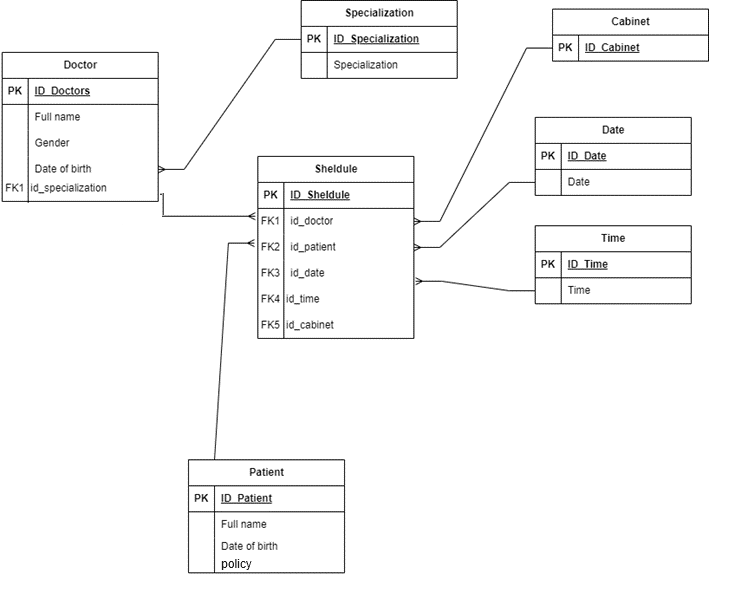
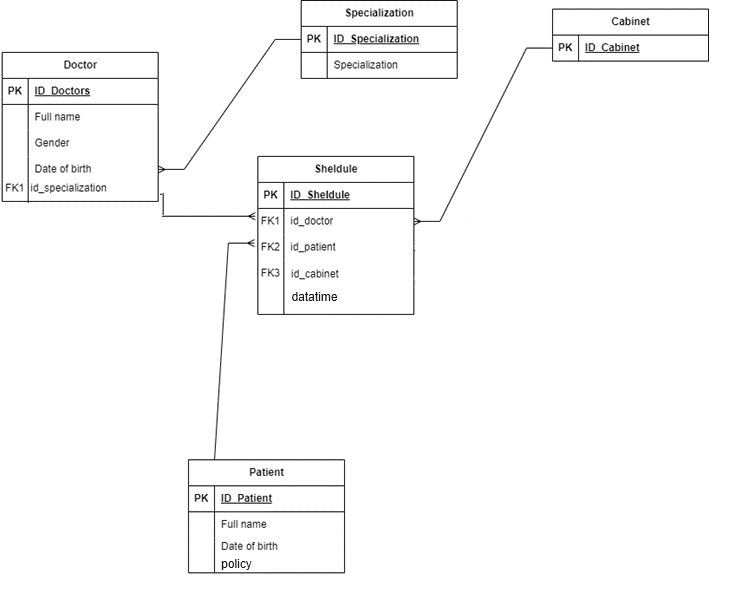
#1 Замечания по дате и времени

diff --git a/ORM/Polyclinic/schedule.py b/ORM/Polyclinic/schedule.py
@@ -1,0 +1,22 @@
+from sqlalchemy import Column, Integer, DateTime, ForeignKey
+from sqlalchemy.orm import relationship
+from base import Base
+
+class Schedule(Base):
+    __tablename__ = 'schedules'
+
+    id = Column(Integer, primary_key=True, index=True)
+    datetime = Column(DateTime)
+    patient_id = Column(Integer, ForeignKey('patients.id'))
+    doctor_id = Column(Integer, ForeignKey('doctors.id'))
+    cabinet_id = Column(Integer, ForeignKey('cabinets.id'))
+
+    patient = relationship('Patient', back_populates='schedules')
+    doctor = relationship('Doctor', back_populates='schedules')
+    cabinet = relationship('Cabinet', back_populates='schedules')
+
+    def __init__(self, datetime: DateTime, patient_id: int, doctor_id: int, cabinet_id: int):
+        self.datetime = datetime
+        self.patient_id = patient_id
+        self.doctor_id = doctor_id
+        self.cabinet_id = cabinet_id

diff --git a/ORM/Polyclinic/patient.py b/ORM/Polyclinic/patient.py
@@ -1,6 +1,7 @@
 from sqlalchemy import Column, Integer, String, Date, ForeignKey
 from sqlalchemy.orm import relationship
 from base import Base
+from schedule import Schedule
 
 class Patient(Base):
     __tablename__ = 'patients'
@@ -10,14 +11,11 @@ class Patient(Base):
     birth_date = Column(Date)
     gender = Column(String)
     policy = Column(String)
-    doctor_id = Column(Integer, ForeignKey('doctors.id'))
 
-    doctor = relationship('Doctor', back_populates='patients')
     schedules = relationship('Schedule', back_populates='patient')
 
-    def __init__(self, name: str, birth_date: Date, gender: str, policy: str, doctor_id: int):
+    def __init__(self, name: str, birth_date: Date, gender: str, policy: str):
         self.name = name
         self.birth_date = birth_date
         self.gender = gender
         self.policy = policy
-        self.doctor_id = doctor_id

diff --git a/ORM/Polyclinic/doctor.py b/ORM/Polyclinic/doctor.py
@@ -11,7 +11,6 @@ class Doctor(Base):
     gender = Column(String)
     specialization_id = Column(Integer, ForeignKey('specializations.id'))
 
-    patients = relationship('Patient', back_populates='doctor')
     schedules = relationship('Schedule', back_populates='doctor')
     specialization = relationship('Specialization', back_populates='doctors')
 

diff --git a/ORM/Polyclinic/cabinet.py b/ORM/Polyclinic/cabinet.py
@@ -8,3 +8,6 @@ class Cabinet(Base):
     id = Column(Integer, primary_key=True, index=True)
 
     schedules = relationship('Schedule', back_populates='cabinet')
+
+    def __init__(self, id):
+        self.id = id
